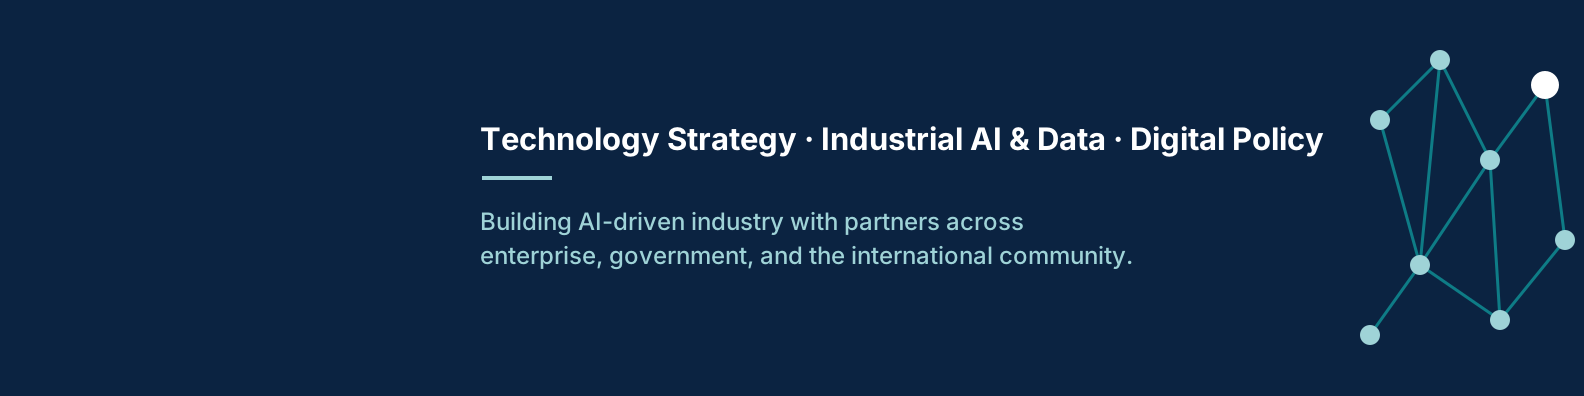
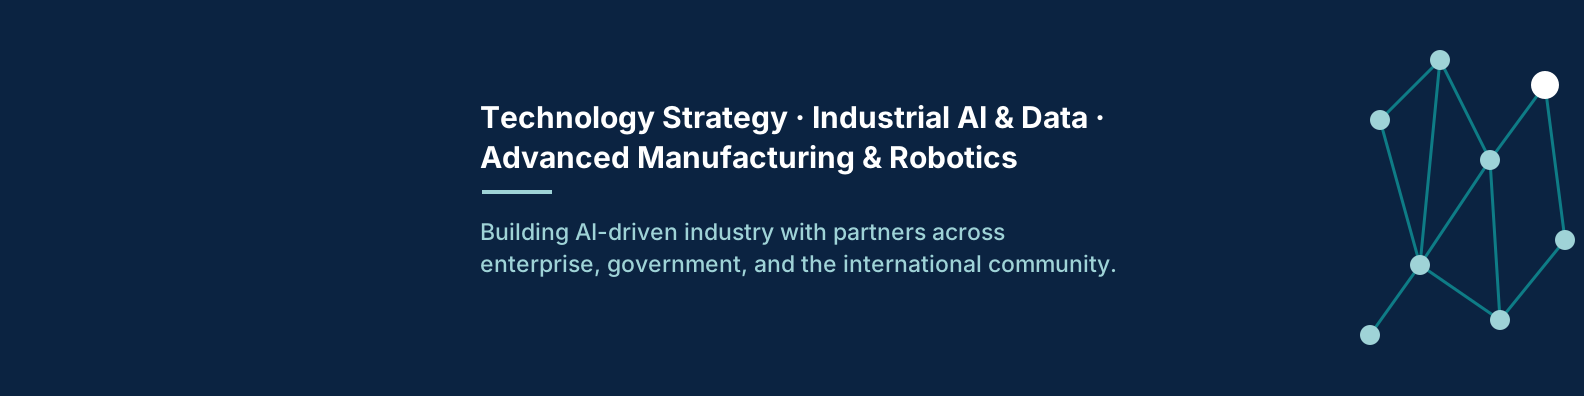
Change consulting scope
- remove digital policy
- add advanced manufacturing & robotics

Changed region(s): [[0.2784, 0.2727, 0.8352, 0.5152], [0.2784, 0.5455, 0.7115, 0.697]]

diff --git a/services.html b/services.html
@@ -4,12 +4,12 @@
 <meta charset="utf-8">
 <meta name="viewport" content="width=device-width, initial-scale=1">
 <title>Services | Dr. Robert Kerwin C. Billones</title>
-<meta name="description" content="Technology strategy, industrial AI and digital transformation, AI applications and systems, and digital policy and AI governance.">
+<meta name="description" content="Technology strategy and digital policy, industrial AI and data, advanced manufacturing and robotics, and AI applications and systems.">
 <meta name="author" content="Robert Kerwin C. Billones, Ph.D.">
 <link rel="canonical" href="https://rkbillones.com/services.html">
 <meta property="og:type" content="website">
 <meta property="og:title" content="Services | Dr. Robert Kerwin C. Billones">
-<meta property="og:description" content="Technology strategy, industrial AI and digital transformation, AI applications and systems, and digital policy and AI governance.">
+<meta property="og:description" content="Technology strategy and digital policy, industrial AI and data, advanced manufacturing and robotics, and AI applications and systems.">
 <meta property="og:url" content="https://rkbillones.com/services.html">
 <meta property="og:image" content="https://rkbillones.com/assets/og-image.png">
 <meta name="twitter:card" content="summary_large_image">
@@ -35,29 +35,39 @@
 <section class="page-hero">
   <div class="wrap">
     <p class="eyebrow">Services</p>
-    <h1>Strategy, industrial AI, AI systems and digital policy</h1>
-    <p class="lead">Four service lines, one practitioner who has built the technology, run the company and worked on the policy.</p>
+    <h1>Technology strategy, industrial AI, advanced manufacturing and AI systems</h1>
+    <p class="lead">Four service lines, one practitioner who has built the technology, run the company, worked on the factory floor and contributed to national and international AI policy.</p>
   </div>
 </section>
 <section class="section">
   <div class="wrap stack"><article class="svc-block" id="str">
   <div class="svc-icon svc-icon-lg"><svg viewBox="0 0 40 40" aria-hidden="true"><path d="M6 32 16 20l7 6 11-14"/><path d="M27 12h7v7"/></svg></div>
   <div>
-    <h2>Technology Strategy and Leadership Advisory</h2>
-    <p class="lead-sm">Technology strategy, roadmaps and commercialization advice from someone who has built and run a technology company.</p>
+    <h2>Technology Strategy and Digital Policy</h2>
+    <p class="lead-sm">Technology strategy, roadmaps, commercialization and AI governance advice from someone who has built and run a technology company and works on national and international AI policy.</p>
     <div class="two-col">
-      <div><h3>What I deliver</h3><ul class="ticks"><li>Technology and digital strategy and roadmaps</li><li>AI and technology investment prioritization</li><li>Technology commercialization, startup and spin-off advisory</li><li>Board and executive advisory on technology</li></ul></div>
-      <div><h3>Relevant experience</h3><ul class="ticks"><li>Startup and technology commercialization advisory for Animo Labs Technology Business Incubator (2021–2023)</li><li>Technology business incubation advisory for DOST–BulSU BARAS Technology Business Incubator (2021–2023)</li><li>Social enterprise and economic development program for DLSU LSEED with the Office of the Vice President of the Philippines (2021–2022)</li></ul></div>
+      <div><h3>What I deliver</h3><ul class="ticks"><li>Technology and digital strategy and roadmaps</li><li>AI and technology investment prioritization and commercialization</li><li>Digital and AI policy, governance frameworks and risk assessment</li><li>Standards alignment (ISO/IEC 42001, ISO/IEC JTC 1/SC 42 work) and AI governance for institutions</li></ul></div>
+      <div><h3>Relevant experience</h3><ul class="ticks"><li>AI governance coordination for Asia; white papers on AI governance, AI in education and AI for sustainable development for Asia-Europe Foundation (ASEF), Singapore – Asia-Europe for Artificial Intelligence (AE4AI) Network (2023–present)</li><li>AI Governance for Higher Education Institutions in Asia for United Board for Christian Higher Education in Asia (Hong Kong) (2026)</li><li>Startup and technology commercialization advisory for Animo Labs Technology Business Incubator (2021–2023)</li><li>Technology business incubation advisory for DOST–BulSU BARAS Technology Business Incubator (2021–2023)</li><li>Social enterprise and economic development program for DLSU LSEED with the Office of the Vice President of the Philippines (2021–2022)</li><li>Frontiers Champions: AI Governance and Safety in the Philippines – research project funded by Royal Academy of Engineering (UK) (2025–2026); Project Leader</li><li>ASEFInnolab6: Universities’ Role in AI Innovation Ecosystems – research project funded by Gokongwei Brothers Foundation (2025–2026); Principal Investigator</li><li>Global and Local AI Innovation Ecosystem and Supply and Value Chain Development – research project funded by DLSU Research Grants and Management Office (2024–2025); Principal Investigator</li></ul></div>
     </div>
   </div>
 </article><article class="svc-block" id="iai">
   <div class="svc-icon svc-icon-lg"><svg viewBox="0 0 40 40" aria-hidden="true"><circle cx="20" cy="20" r="5"/><path d="M20 5v6M20 29v6M5 20h6M29 20h6M9.4 9.4l4.2 4.2M26.4 26.4l4.2 4.2M9.4 30.6l4.2-4.2M26.4 13.6l4.2-4.2"/></svg></div>
   <div>
-    <h2>Industrial AI and Digital Transformation</h2>
-    <p class="lead-sm">AI, data, digital twins, robotics and automation that move from pilot to plant.</p>
+    <h2>Industrial AI and Data</h2>
+    <p class="lead-sm">AI, data platforms and digital twins that turn plant, warehouse and operations data into decisions – from pilot to production.</p>
     <div class="two-col">
-      <div><h3>What I deliver</h3><ul class="ticks"><li>Industry 4.0 and smart-manufacturing readiness assessment</li><li>Digital twin, simulation and optimization design</li><li>Computer vision, robotics and automation solutions</li><li>AI and data platform architecture and due diligence</li></ul></div>
-      <div><h3>Relevant experience</h3><ul class="ticks"><li>1 engagements delivered as CEO of ISI Inc.: see the <a href="track-record.html">track record</a></li></ul></div>
+      <div><h3>What I deliver</h3><ul class="ticks"><li>Industrial data strategy and platform architecture</li><li>Predictive maintenance, quality and energy analytics</li><li>Digital twin design, simulation and optimization</li><li>AI and data platform due diligence</li></ul></div>
+      <div><h3>Relevant experience</h3><ul class="ticks"><li>autom8One manufacturing AI for Philippine factories – Profet AI (Taiwan) – partnership (2025–present), as CEO of ISI Inc.</li><li>Research in industrial AI, cyber-physical systems and optimization, including digital twinning for smart parking and multi-objective optimization of DC microgrid energy systems (110+ international publications)</li></ul></div>
+    </div>
+  </div>
+</article><article class="svc-block" id="amr">
+  <div class="svc-icon svc-icon-lg"><svg viewBox="0 0 40 40" aria-hidden="true"><path d="M7 34h16"/><path d="M15 34v-6"/><circle cx="15" cy="25" r="3"/><path d="m17 23 7-9"/><circle cx="25.5" cy="12.5" r="2.5"/><path d="m27.5 11 5-3M28 14l5 2"/></svg></div>
+  <div>
+    <h2>Advanced Manufacturing and Robotics</h2>
+    <p class="lead-sm">Industry 4.0, automation and robotics that move from pilot to plant – for manufacturers, electronics and semiconductor firms, and industry programs.</p>
+    <div class="two-col">
+      <div><h3>What I deliver</h3><ul class="ticks"><li>Industry 4.0 and smart-factory readiness assessments and roadmaps</li><li>Robotics and automation opportunity assessment and integration planning</li><li>Digital manufacturing training and workforce upskilling</li><li>Semiconductor and electronics technology advisory</li></ul></div>
+      <div><h3>Relevant experience</h3><ul class="ticks"><li>Digital Manufacturing Assembly Trainer with Digital Twin Simulator – research project funded by DOST-PCIEERD (2025–2026); Project Leader</li><li>Industry 4.0 Bootcamp for DOST regional offices and an Augmented Reality and Digital Twins course for semiconductor professionals (through DLSU, 2026)</li><li>Former digital IC design engineer, ROHM LSI Design Philippines (RTL design, FPGA prototyping and verification)</li></ul></div>
     </div>
   </div>
 </article><article class="svc-block" id="ais">
@@ -67,17 +77,7 @@
     <p class="lead-sm">Design and build of working AI applications – from data pipeline and model to a deployed, monitored system.</p>
     <div class="two-col">
       <div><h3>What I deliver</h3><ul class="ticks"><li>Custom AI and machine-learning applications</li><li>LLM, RAG and agentic assistants for enterprise and education</li><li>Computer vision and video analytics systems</li><li>Data engineering, cloud deployment and MLOps</li></ul></div>
-      <div><h3>Relevant experience</h3><ul class="ticks"><li>AI / machine-learning solution development for Neuronmek Inc. (2017–2021)</li><li>10 engagements delivered as CEO of ISI Inc.: see the <a href="track-record.html">track record</a></li></ul></div>
-    </div>
-  </div>
-</article><article class="svc-block" id="dpg">
-  <div class="svc-icon svc-icon-lg"><svg viewBox="0 0 40 40" aria-hidden="true"><path d="M20 5 33 10v9c0 8-5.5 13.5-13 16-7.5-2.5-13-8-13-16v-9z"/><path d="m14 20 4.5 4.5L27 16"/></svg></div>
-  <div>
-    <h2>Digital Policy and AI Governance</h2>
-    <p class="lead-sm">Digital and AI policy, governance frameworks and standards alignment for government, industry and institutions.</p>
-    <div class="two-col">
-      <div><h3>What I deliver</h3><ul class="ticks"><li>Digital and AI policy research and advisory</li><li>AI and data governance frameworks and risk assessment</li><li>Standards alignment (ISO/IEC 42001, ISO/IEC JTC 1/SC 42 work)</li><li>AI governance for higher education institutions</li></ul></div>
-      <div><h3>Relevant experience</h3><ul class="ticks"><li>AI governance coordination for Asia; white papers on AI governance, AI in education and AI for sustainable development for Asia-Europe Foundation (ASEF), Singapore – Asia-Europe for Artificial Intelligence (AE4AI) Network (2023–present)</li><li>AI Governance for Higher Education Institutions in Asia for United Board for Christian Higher Education in Asia (Hong Kong) (2026)</li></ul></div>
+      <div><h3>Relevant experience</h3><ul class="ticks"><li>AI / machine-learning solution development for Neuronmek Inc. (2017–2021)</li><li>10 engagements delivered as CEO of ISI Inc.: see the <a href="track-record.html">track record</a></li><li>Single-Agent Retrieval-Augmented Generation System in Education – research project funded by DLSU Research Grants and Management Office (2026–2027); Principal Investigator</li><li>FASTRAC: Vision-Based AI Analytics Software for Traffic and Transport – research project funded by DOST-PCIEERD (2019–2020); Product Development Lead</li></ul></div>
     </div>
   </div>
 </article></div>
@@ -94,13 +94,13 @@
   <div class="wrap footer-grid">
     <div>
       <span class="logo logo-rev" aria-label="rkb."><span class="logo-word">rkb</span><span class="logo-dot"></span></span>
-      <p class="footer-desc">Technology Strategy · Industrial AI &amp; Data · Digital Policy</p>
+      <p class="footer-desc">Technology Strategy · Industrial AI &amp; Data · Advanced Manufacturing &amp; Robotics</p>
       <p class="footer-tag">Building AI-driven industry with partners across enterprise, government, and the international community.</p>
     </div>
     <div>
       <h2 class="footer-h">Contact</h2>
       <ul class="contact-list">
-        <li><svg viewBox="0 0 24 24" aria-hidden="true"><rect x="3" y="5" width="18" height="14" rx="2"/><path d="M3.5 6.5 12 13l8.5-6.5"/></svg><a href="mailto:robert@rkbillones.com">robert@rkbillones.com</a></li>
+        <li><svg viewBox="0 0 24 24" aria-hidden="true"><rect x="3" y="5" width="18" height="14" rx="2"/><path d="M3.5 6.5 12 13l8.5-6.5"/></svg><a href="mailto:consulting@rkbillones.com">consulting@rkbillones.com</a></li>
         <li><svg viewBox="0 0 24 24" aria-hidden="true"><rect x="7" y="2.5" width="10" height="19" rx="2.2"/><path d="M10.5 5.5h3"/><circle cx="12" cy="18" r=".9" fill="currentColor" stroke="none"/></svg><a href="tel:+639054330480">+63 905 433 0480</a></li>
         <li><svg viewBox="0 0 24 24" aria-hidden="true"><path d="M12 21s-6.5-6.2-6.5-11a6.5 6.5 0 0 1 13 0c0 4.8-6.5 11-6.5 11z"/><circle cx="12" cy="10" r="2.3"/></svg><span>Metro Manila, Philippines</span></li>
         <li><svg viewBox="0 0 24 24" aria-hidden="true"><rect x="3" y="3" width="18" height="18" rx="3"/><path d="M8 10.5v6M8 7.6v.1M11.5 16.5v-6M11.5 13c0-1.7 1-2.6 2.4-2.6s2.1.9 2.1 2.6v3.5"/></svg><a href="https://www.linkedin.com/in/robert-kerwin-billones-70526b146" rel="noopener">LinkedIn</a></li>

diff --git a/index.html b/index.html
@@ -3,13 +3,13 @@
 <head>
 <meta charset="utf-8">
 <meta name="viewport" content="width=device-width, initial-scale=1">
-<title>Dr. Robert Kerwin C. Billones | Technology Strategy · Industrial AI &amp; Data · Digital Policy</title>
-<meta name="description" content="Dr. Robert Kerwin C. Billones: technology strategy, industrial AI and data, and digital policy advisory. CEO of ISI Inc., full professor at De La Salle University, Royal Academy of Engineering LIF Fellow.">
+<title>Dr. Robert Kerwin C. Billones | Technology Strategy · Industrial AI &amp; Data · Advanced Manufacturing &amp; Robotics</title>
+<meta name="description" content="Dr. Robert Kerwin C. Billones: technology strategy, industrial AI and data, and advanced manufacturing and robotics advisory. CEO of ISI Inc., full professor of manufacturing and robotics engineering at De La Salle University, Royal Academy of Engineering LIF Fellow.">
 <meta name="author" content="Robert Kerwin C. Billones, Ph.D.">
 <link rel="canonical" href="https://rkbillones.com/">
 <meta property="og:type" content="website">
-<meta property="og:title" content="Dr. Robert Kerwin C. Billones | Technology Strategy · Industrial AI &amp; Data · Digital Policy">
-<meta property="og:description" content="Dr. Robert Kerwin C. Billones: technology strategy, industrial AI and data, and digital policy advisory. CEO of ISI Inc., full professor at De La Salle University, Royal Academy of Engineering LIF Fellow.">
+<meta property="og:title" content="Dr. Robert Kerwin C. Billones | Technology Strategy · Industrial AI &amp; Data · Advanced Manufacturing &amp; Robotics">
+<meta property="og:description" content="Dr. Robert Kerwin C. Billones: technology strategy, industrial AI and data, and advanced manufacturing and robotics advisory. CEO of ISI Inc., full professor of manufacturing and robotics engineering at De La Salle University, Royal Academy of Engineering LIF Fellow.">
 <meta property="og:url" content="https://rkbillones.com/">
 <meta property="og:image" content="https://rkbillones.com/assets/og-image.png">
 <meta name="twitter:card" content="summary_large_image">
@@ -35,9 +35,9 @@
 <section class="hero">
   <div class="wrap hero-grid">
     <div>
-      <p class="eyebrow">Technology Strategy · Industrial AI &amp; Data · Digital Policy</p>
+      <p class="eyebrow">Technology Strategy · Industrial AI &amp; Data · Advanced Manufacturing &amp; Robotics</p>
       <h1>Building AI-driven industry with partners across enterprise, government, and the international community.</h1>
-      <p class="lead">I help companies and governments turn AI and digital technology into industrial results, and shape the policies that go with it, as an engineer, a company builder and a policy researcher.</p>
+      <p class="lead">I help manufacturers, technology companies and governments turn AI, data, automation and robotics into industrial results, and shape the policies that go with them, as a manufacturing and robotics engineer, a company builder and a policy researcher.</p>
       <div class="actions">
         <a class="btn btn-primary" href="contact.html">Start a conversation</a>
         <a class="btn btn-ghost" href="services.html">See services</a>
@@ -61,27 +61,27 @@
     </div>
     <div class="grid-4"><article class="card svc">
   <div class="svc-icon"><svg viewBox="0 0 40 40" aria-hidden="true"><path d="M6 32 16 20l7 6 11-14"/><path d="M27 12h7v7"/></svg></div>
-  <h3>Technology Strategy and Leadership Advisory</h3>
-  <p>Technology strategy, roadmaps and commercialization advice from someone who has built and run a technology company.</p>
+  <h3>Technology Strategy and Digital Policy</h3>
+  <p>Technology strategy, roadmaps, commercialization and AI governance advice from someone who has built and run a technology company and works on national and international AI policy.</p>
   <a class="more" href="services.html#str">How I help <svg viewBox="0 0 24 24" aria-hidden="true"><path d="M5 12h14M13 6l6 6-6 6"/></svg></a>
 </article>
 <article class="card svc">
   <div class="svc-icon"><svg viewBox="0 0 40 40" aria-hidden="true"><circle cx="20" cy="20" r="5"/><path d="M20 5v6M20 29v6M5 20h6M29 20h6M9.4 9.4l4.2 4.2M26.4 26.4l4.2 4.2M9.4 30.6l4.2-4.2M26.4 13.6l4.2-4.2"/></svg></div>
-  <h3>Industrial AI and Digital Transformation</h3>
-  <p>AI, data, digital twins, robotics and automation that move from pilot to plant.</p>
+  <h3>Industrial AI and Data</h3>
+  <p>AI, data platforms and digital twins that turn plant, warehouse and operations data into decisions – from pilot to production.</p>
   <a class="more" href="services.html#iai">How I help <svg viewBox="0 0 24 24" aria-hidden="true"><path d="M5 12h14M13 6l6 6-6 6"/></svg></a>
+</article>
+<article class="card svc">
+  <div class="svc-icon"><svg viewBox="0 0 40 40" aria-hidden="true"><path d="M7 34h16"/><path d="M15 34v-6"/><circle cx="15" cy="25" r="3"/><path d="m17 23 7-9"/><circle cx="25.5" cy="12.5" r="2.5"/><path d="m27.5 11 5-3M28 14l5 2"/></svg></div>
+  <h3>Advanced Manufacturing and Robotics</h3>
+  <p>Industry 4.0, automation and robotics that move from pilot to plant – for manufacturers, electronics and semiconductor firms, and industry programs.</p>
+  <a class="more" href="services.html#amr">How I help <svg viewBox="0 0 24 24" aria-hidden="true"><path d="M5 12h14M13 6l6 6-6 6"/></svg></a>
 </article>
 <article class="card svc">
   <div class="svc-icon"><svg viewBox="0 0 40 40" aria-hidden="true"><rect x="6" y="8" width="28" height="20" rx="2.5"/><path d="M14 33h12M20 28v5M13 18l4 4 4-4 4 4"/></svg></div>
   <h3>AI Applications and Systems</h3>
   <p>Design and build of working AI applications – from data pipeline and model to a deployed, monitored system.</p>
   <a class="more" href="services.html#ais">How I help <svg viewBox="0 0 24 24" aria-hidden="true"><path d="M5 12h14M13 6l6 6-6 6"/></svg></a>
-</article>
-<article class="card svc">
-  <div class="svc-icon"><svg viewBox="0 0 40 40" aria-hidden="true"><path d="M20 5 33 10v9c0 8-5.5 13.5-13 16-7.5-2.5-13-8-13-16v-9z"/><path d="m14 20 4.5 4.5L27 16"/></svg></div>
-  <h3>Digital Policy and AI Governance</h3>
-  <p>Digital and AI policy, governance frameworks and standards alignment for government, industry and institutions.</p>
-  <a class="more" href="services.html#dpg">How I help <svg viewBox="0 0 24 24" aria-hidden="true"><path d="M5 12h14M13 6l6 6-6 6"/></svg></a>
 </article></div>
   </div>
 </section>
@@ -103,14 +103,14 @@
   <div class="wrap">
     <div class="section-head">
       <p class="eyebrow">Credentials</p>
-      <h2>Engineer, executive and policy researcher</h2>
+      <h2>Manufacturing and robotics engineer, technology executive, policy researcher</h2>
     </div>
     <ul class="cred-grid">
       <li><strong>CEO and Co-Founder</strong><span>Intelligent Systems Innovation (ISI) Inc., an AI and data company (2019–present)</span></li>
-      <li><strong>Full Professor and Research Fellow</strong><span>De La Salle University, Manila</span></li>
+      <li><strong>Full Professor and Research Fellow</strong><span>Department of Biomedical, Manufacturing, and Robotics Engineering, De La Salle University</span></li>
+      <li><strong>Digital twin and Industry 4.0 projects</strong><span>Project Leader, DOST-PCIEERD Digital Manufacturing Assembly Trainer with Digital Twin Simulator</span></li>
       <li><strong>Leaders in Innovation Fellow</strong><span>Royal Academy of Engineering, United Kingdom</span></li>
-      <li><strong>Asia Coordinator for AI Governance</strong><span>Asia-Europe for Artificial Intelligence (AE4AI) Network, ASEF</span></li>
-      <li><strong>AI standards</strong><span>Philippine committee BPS/TC 60/SC4, mirror of ISO/IEC JTC 1/SC 42</span></li>
+      <li><strong>AI governance and standards</strong><span>AE4AI Asia Coordinator for AI Governance (ASEF); Philippine AI standards committee BPS/TC 60/SC4</span></li>
       <li><strong>Former IC design engineer</strong><span>ROHM LSI Design Philippines</span></li>
     </ul>
   </div>
@@ -118,8 +118,8 @@
 
 <section class="cta">
   <div class="wrap cta-inner">
-    <h2>Have a technology, AI or policy challenge?</h2>
-    <a class="btn btn-primary" href="mailto:robert@rkbillones.com"><svg viewBox="0 0 24 24" aria-hidden="true"><rect x="3" y="5" width="18" height="14" rx="2"/><path d="M3.5 6.5 12 13l8.5-6.5"/></svg> robert@rkbillones.com</a>
+    <h2>Have a technology, AI or automation challenge?</h2>
+    <a class="btn btn-primary" href="mailto:consulting@rkbillones.com"><svg viewBox="0 0 24 24" aria-hidden="true"><rect x="3" y="5" width="18" height="14" rx="2"/><path d="M3.5 6.5 12 13l8.5-6.5"/></svg> consulting@rkbillones.com</a>
   </div>
 </section>
 </main>
@@ -127,13 +127,13 @@
   <div class="wrap footer-grid">
     <div>
       <span class="logo logo-rev" aria-label="rkb."><span class="logo-word">rkb</span><span class="logo-dot"></span></span>
-      <p class="footer-desc">Technology Strategy · Industrial AI &amp; Data · Digital Policy</p>
+      <p class="footer-desc">Technology Strategy · Industrial AI &amp; Data · Advanced Manufacturing &amp; Robotics</p>
       <p class="footer-tag">Building AI-driven industry with partners across enterprise, government, and the international community.</p>
     </div>
     <div>
       <h2 class="footer-h">Contact</h2>
       <ul class="contact-list">
-        <li><svg viewBox="0 0 24 24" aria-hidden="true"><rect x="3" y="5" width="18" height="14" rx="2"/><path d="M3.5 6.5 12 13l8.5-6.5"/></svg><a href="mailto:robert@rkbillones.com">robert@rkbillones.com</a></li>
+        <li><svg viewBox="0 0 24 24" aria-hidden="true"><rect x="3" y="5" width="18" height="14" rx="2"/><path d="M3.5 6.5 12 13l8.5-6.5"/></svg><a href="mailto:consulting@rkbillones.com">consulting@rkbillones.com</a></li>
         <li><svg viewBox="0 0 24 24" aria-hidden="true"><rect x="7" y="2.5" width="10" height="19" rx="2.2"/><path d="M10.5 5.5h3"/><circle cx="12" cy="18" r=".9" fill="currentColor" stroke="none"/></svg><a href="tel:+639054330480">+63 905 433 0480</a></li>
         <li><svg viewBox="0 0 24 24" aria-hidden="true"><path d="M12 21s-6.5-6.2-6.5-11a6.5 6.5 0 0 1 13 0c0 4.8-6.5 11-6.5 11z"/><circle cx="12" cy="10" r="2.3"/></svg><span>Metro Manila, Philippines</span></li>
         <li><svg viewBox="0 0 24 24" aria-hidden="true"><rect x="3" y="3" width="18" height="18" rx="3"/><path d="M8 10.5v6M8 7.6v.1M11.5 16.5v-6M11.5 13c0-1.7 1-2.6 2.4-2.6s2.1.9 2.1 2.6v3.5"/></svg><a href="https://www.linkedin.com/in/robert-kerwin-billones-70526b146" rel="noopener">LinkedIn</a></li>

diff --git a/about.html b/about.html
@@ -36,7 +36,7 @@
   <div class="wrap">
     <p class="eyebrow">About</p>
     <h1>Robert Kerwin C. Billones, Ph.D.</h1>
-    <p class="lead">Technology Strategy · Industrial AI &amp; Data · Digital Policy</p>
+    <p class="lead">Technology Strategy · Industrial AI &amp; Data · Advanced Manufacturing &amp; Robotics</p>
   </div>
 </section>
 <section class="section">
@@ -47,7 +47,7 @@
       <div class="portrait-ph"><span class="logo logo-xl" aria-label="rkb."><span class="logo-word">rkb</span><span class="logo-dot"></span></span></div>
     </figure>
     <div class="prose">
-      <p>Dr. Robert Kerwin C. Billones is an engineer, technology executive and policy researcher working where AI, industry and public policy meet. He is co-founder and CEO of Intelligent Systems Innovation (ISI) Inc., a DLSU spin-off in AI and data that has served the Department of Science and Technology Region VIII and Unilever in the Philippines, Indonesia and Thailand, with partnerships including AWS, the NVIDIA Inception Program, the Intel Partner Alliance and Profet AI. ISI commercializes CATCH-ALL, an AI visual analytics platform for mobility and traffic that grew out of his DOST-funded research and patent. He personally led the product development and managed the projects and client relationships, from Manila City, the MMDA and Makati City to Roxas City, General Santos City and the Cordillera region, and the &quot;Eyes Up&quot; workplace-safety AI for Unilever. He began his career as a digital IC design engineer at ROHM LSI Design Philippines and is now a full professor and research fellow in the Department of Biomedical, Manufacturing, and Robotics Engineering at De La Salle University, Manila. He holds a Ph.D. in Electronics and Communications Engineering (DLSU, 2018) and is a Leaders in Innovation Fellow of the Royal Academy of Engineering, United Kingdom.</p><p>His industrial work spans digital manufacturing, digital twins, computer vision and optimization, including the DOST-PCIEERD Digital Manufacturing Assembly Trainer with Digital Twin Simulator. In digital policy, he serves as Asia Coordinator for AI Governance of the Asia-Europe for Artificial Intelligence (AE4AI) Network, is a research group member of the AI Policy Clinic of the Center for AI and Digital Policy (CAIDP), Washington, D.C., sits on the Philippine AI standards committee mirroring ISO/IEC JTC 1/SC 42, and led &quot;Frontiers Champions: AI Governance and Safety in the Philippines,&quot; funded by the Royal Academy of Engineering. He has published 110+ international articles and holds a Philippine patent on license plate detection and recognition.</p>
+      <p>Dr. Robert Kerwin C. Billones is an engineer, technology executive and policy researcher working where AI, industry and public policy meet. He is co-founder and CEO of Intelligent Systems Innovation (ISI) Inc., a DLSU spin-off in AI and data that has served the Department of Science and Technology Region VIII and Unilever in the Philippines, Indonesia and Thailand, with partnerships including AWS, the NVIDIA Inception Program, the Intel Partner Alliance and Profet AI. ISI commercializes CATCH-ALL, an AI visual analytics platform for mobility and traffic that grew out of his DOST-funded research and patent. He personally led the product development and managed the projects and client relationships, from Manila City, the MMDA and Makati City to Roxas City, General Santos City and the Cordillera region, and the &quot;Eyes Up&quot; workplace-safety AI for Unilever. He began his career as a digital IC design engineer at ROHM LSI Design Philippines and is now a full professor and research fellow in the Department of Biomedical, Manufacturing, and Robotics Engineering at De La Salle University, Manila. He holds a Ph.D. in Electronics and Communications Engineering (DLSU, 2018) and is a Leaders in Innovation Fellow of the Royal Academy of Engineering, United Kingdom.</p><p>His industrial work spans advanced manufacturing, robotics and automation, digital twins, computer vision and optimization. He led the DOST-PCIEERD Digital Manufacturing Assembly Trainer with Digital Twin Simulator, trains DOST regional offices and semiconductor engineers in Industry 4.0, augmented reality and digital twins, and is preparing ORBIT, an AI-enabled digital twin platform for production and warehouse automation. On the policy side of technology strategy, he serves as Asia Coordinator for AI Governance of the Asia-Europe for Artificial Intelligence (AE4AI) Network, is a research group member of the AI Policy Clinic of the Center for AI and Digital Policy (CAIDP), Washington, D.C., sits on the Philippine AI standards committee mirroring ISO/IEC JTC 1/SC 42, and led &quot;Frontiers Champions: AI Governance and Safety in the Philippines,&quot; funded by the Royal Academy of Engineering. He has published 110+ international articles and holds a Philippine patent on license plate detection and recognition.</p>
       <h2>Education</h2>
       <ul class="plain">
         <li><strong>Ph.D., Electronics and Communications Engineering</strong>, De La Salle University (2018)</li>
@@ -58,7 +58,7 @@
       <h2>Affiliations and standards work</h2>
       <ul class="plain"><li><strong>Founding Member; Asia Coordinator for AI Governance</strong>, Asia-Europe for Artificial Intelligence (AE4AI) Network, ASEF Singapore (2023–present)</li><li><strong>Research Group Member, AI Policy Clinic</strong>, Center for AI and Digital Policy (CAIDP), Washington, D.C. (2026)</li><li><strong>Member (through the national body)</strong>, ISO/IEC JTC 1/SC 42 – Artificial Intelligence (2024–present)</li><li><strong>Member</strong>, DTI Bureau of Philippine Standards BPS/TC 60/SC4 – AI and Quantum Technologies (2024–present)</li><li><strong>Fellow</strong>, Royal Academy of Engineering (UK) – Leaders in Innovation Fellowship (2019–present)</li><li><strong>Project Leader</strong>, Royal Academy of Engineering (UK) – Frontiers Champions: AI Governance and Safety (2025–2026)</li></ul>
       <h2>Sectors</h2>
-      <p>Manufacturing · Semiconductors and Electronics · Transportation and Smart Cities · Consumer Goods · Government · Financial Services · Higher Education</p>
+      <p>Advanced Manufacturing and Industry 4.0 · Semiconductors and Electronics · Transportation and Smart Cities · Consumer Goods · Government · Financial Services · Higher Education</p>
     </div>
   </div>
 </section>
@@ -67,13 +67,13 @@
   <div class="wrap footer-grid">
     <div>
       <span class="logo logo-rev" aria-label="rkb."><span class="logo-word">rkb</span><span class="logo-dot"></span></span>
-      <p class="footer-desc">Technology Strategy · Industrial AI &amp; Data · Digital Policy</p>
+      <p class="footer-desc">Technology Strategy · Industrial AI &amp; Data · Advanced Manufacturing &amp; Robotics</p>
       <p class="footer-tag">Building AI-driven industry with partners across enterprise, government, and the international community.</p>
     </div>
     <div>
       <h2 class="footer-h">Contact</h2>
       <ul class="contact-list">
-        <li><svg viewBox="0 0 24 24" aria-hidden="true"><rect x="3" y="5" width="18" height="14" rx="2"/><path d="M3.5 6.5 12 13l8.5-6.5"/></svg><a href="mailto:robert@rkbillones.com">robert@rkbillones.com</a></li>
+        <li><svg viewBox="0 0 24 24" aria-hidden="true"><rect x="3" y="5" width="18" height="14" rx="2"/><path d="M3.5 6.5 12 13l8.5-6.5"/></svg><a href="mailto:consulting@rkbillones.com">consulting@rkbillones.com</a></li>
         <li><svg viewBox="0 0 24 24" aria-hidden="true"><rect x="7" y="2.5" width="10" height="19" rx="2.2"/><path d="M10.5 5.5h3"/><circle cx="12" cy="18" r=".9" fill="currentColor" stroke="none"/></svg><a href="tel:+639054330480">+63 905 433 0480</a></li>
         <li><svg viewBox="0 0 24 24" aria-hidden="true"><path d="M12 21s-6.5-6.2-6.5-11a6.5 6.5 0 0 1 13 0c0 4.8-6.5 11-6.5 11z"/><circle cx="12" cy="10" r="2.3"/></svg><span>Metro Manila, Philippines</span></li>
         <li><svg viewBox="0 0 24 24" aria-hidden="true"><rect x="3" y="3" width="18" height="18" rx="3"/><path d="M8 10.5v6M8 7.6v.1M11.5 16.5v-6M11.5 13c0-1.7 1-2.6 2.4-2.6s2.1.9 2.1 2.6v3.5"/></svg><a href="https://www.linkedin.com/in/robert-kerwin-billones-70526b146" rel="noopener">LinkedIn</a></li>

diff --git a/insights.html b/insights.html
@@ -4,12 +4,12 @@
 <meta charset="utf-8">
 <meta name="viewport" content="width=device-width, initial-scale=1">
 <title>Insights | Dr. Robert Kerwin C. Billones</title>
-<meta name="description" content="Publications, research profiles and AI policy and governance work.">
+<meta name="description" content="Publications, research profiles, advanced manufacturing projects and AI policy and governance work.">
 <meta name="author" content="Robert Kerwin C. Billones, Ph.D.">
 <link rel="canonical" href="https://rkbillones.com/insights.html">
 <meta property="og:type" content="website">
 <meta property="og:title" content="Insights | Dr. Robert Kerwin C. Billones">
-<meta property="og:description" content="Publications, research profiles and AI policy and governance work.">
+<meta property="og:description" content="Publications, research profiles, advanced manufacturing projects and AI policy and governance work.">
 <meta property="og:url" content="https://rkbillones.com/insights.html">
 <meta property="og:image" content="https://rkbillones.com/assets/og-image.png">
 <meta name="twitter:card" content="summary_large_image">
@@ -35,7 +35,7 @@
 <section class="page-hero">
   <div class="wrap">
     <p class="eyebrow">Insights</p>
-    <h1>Research, publications and policy work</h1>
+    <h1>Research, publications and technology policy work</h1>
     <p class="lead">110+ international publications in artificial intelligence, cyber-physical systems, Industry 4.0 and optimization, and a Philippine patent on license plate detection and recognition.</p>
   </div>
 </section>
@@ -44,7 +44,13 @@
     <div>
       <h2>Recent publications</h2>
       <ul class="ticks"><li>AI Ecosystem and Value Chain: A Multi-Layered Framework (Technologies, 2025)</li><li>White Paper for Universities on Navigating AI Innovation Ecosystems in the Area of AI Governance</li><li>Digital Twinning for Smart Parking (Smart Cities, 2025)</li><li>Semantic Segmentation using Sentinel-1 SAR Time Series: A Temporal Convolutional Network Approach (IEEE Access, 2025)</li><li>Multi-Objective Linear Programming for Optimizing a Local Energy Community DC Microgrid System and Business Model</li></ul>
-      <h2>Policy and governance work</h2>
+      <h2>Advanced manufacturing and Industry 4.0</h2>
+      <ul class="ticks">
+        <li>Digital Manufacturing Assembly Trainer with Digital Twin Simulator (DOST-PCIEERD, Project Leader)</li>
+        <li>Industry 4.0 Bootcamp for DOST regional offices; Augmented Reality and Digital Twins course for semiconductor professionals (DLSU)</li>
+        <li>Research in cyber-physical systems, digital twins, optimization and intelligent manufacturing</li>
+      </ul>
+      <h2>Technology policy and AI governance</h2>
       <ul class="ticks">
         <li>AE4AI Network white papers on AI governance, AI in education and AI for sustainable development</li>
         <li>Frontiers Champions: AI Governance and Safety in the Philippines (Royal Academy of Engineering)</li>
@@ -64,13 +70,13 @@
   <div class="wrap footer-grid">
     <div>
       <span class="logo logo-rev" aria-label="rkb."><span class="logo-word">rkb</span><span class="logo-dot"></span></span>
-      <p class="footer-desc">Technology Strategy · Industrial AI &amp; Data · Digital Policy</p>
+      <p class="footer-desc">Technology Strategy · Industrial AI &amp; Data · Advanced Manufacturing &amp; Robotics</p>
       <p class="footer-tag">Building AI-driven industry with partners across enterprise, government, and the international community.</p>
     </div>
     <div>
       <h2 class="footer-h">Contact</h2>
       <ul class="contact-list">
-        <li><svg viewBox="0 0 24 24" aria-hidden="true"><rect x="3" y="5" width="18" height="14" rx="2"/><path d="M3.5 6.5 12 13l8.5-6.5"/></svg><a href="mailto:robert@rkbillones.com">robert@rkbillones.com</a></li>
+        <li><svg viewBox="0 0 24 24" aria-hidden="true"><rect x="3" y="5" width="18" height="14" rx="2"/><path d="M3.5 6.5 12 13l8.5-6.5"/></svg><a href="mailto:consulting@rkbillones.com">consulting@rkbillones.com</a></li>
         <li><svg viewBox="0 0 24 24" aria-hidden="true"><rect x="7" y="2.5" width="10" height="19" rx="2.2"/><path d="M10.5 5.5h3"/><circle cx="12" cy="18" r=".9" fill="currentColor" stroke="none"/></svg><a href="tel:+639054330480">+63 905 433 0480</a></li>
         <li><svg viewBox="0 0 24 24" aria-hidden="true"><path d="M12 21s-6.5-6.2-6.5-11a6.5 6.5 0 0 1 13 0c0 4.8-6.5 11-6.5 11z"/><circle cx="12" cy="10" r="2.3"/></svg><span>Metro Manila, Philippines</span></li>
         <li><svg viewBox="0 0 24 24" aria-hidden="true"><rect x="3" y="3" width="18" height="18" rx="3"/><path d="M8 10.5v6M8 7.6v.1M11.5 16.5v-6M11.5 13c0-1.7 1-2.6 2.4-2.6s2.1.9 2.1 2.6v3.5"/></svg><a href="https://www.linkedin.com/in/robert-kerwin-billones-70526b146" rel="noopener">LinkedIn</a></li>

diff --git a/contact.html b/contact.html
@@ -41,7 +41,7 @@
 </section>
 <section class="section">
   <div class="wrap contact-grid">
-    <a class="card contact-card" href="mailto:robert@rkbillones.com?subject=Consulting%20inquiry"><svg viewBox="0 0 24 24" aria-hidden="true"><rect x="3" y="5" width="18" height="14" rx="2"/><path d="M3.5 6.5 12 13l8.5-6.5"/></svg><span class="cc-l">Email</span><span class="cc-v">robert@rkbillones.com</span></a>
+    <a class="card contact-card" href="mailto:consulting@rkbillones.com?subject=Consulting%20inquiry"><svg viewBox="0 0 24 24" aria-hidden="true"><rect x="3" y="5" width="18" height="14" rx="2"/><path d="M3.5 6.5 12 13l8.5-6.5"/></svg><span class="cc-l">Email</span><span class="cc-v">consulting@rkbillones.com</span></a>
     <a class="card contact-card" href="tel:+639054330480"><svg viewBox="0 0 24 24" aria-hidden="true"><rect x="7" y="2.5" width="10" height="19" rx="2.2"/><path d="M10.5 5.5h3"/><circle cx="12" cy="18" r=".9" fill="currentColor" stroke="none"/></svg><span class="cc-l">Mobile</span><span class="cc-v">+63 905 433 0480</span></a>
     <a class="card contact-card" href="https://www.linkedin.com/in/robert-kerwin-billones-70526b146" rel="noopener"><svg viewBox="0 0 24 24" aria-hidden="true"><rect x="3" y="3" width="18" height="18" rx="3"/><path d="M8 10.5v6M8 7.6v.1M11.5 16.5v-6M11.5 13c0-1.7 1-2.6 2.4-2.6s2.1.9 2.1 2.6v3.5"/></svg><span class="cc-l">LinkedIn</span><span class="cc-v">Connect or message</span></a>
     <div class="card contact-card"><svg viewBox="0 0 24 24" aria-hidden="true"><path d="M12 21s-6.5-6.2-6.5-11a6.5 6.5 0 0 1 13 0c0 4.8-6.5 11-6.5 11z"/><circle cx="12" cy="10" r="2.3"/></svg><span class="cc-l">Based in</span><span class="cc-v">Metro Manila, Philippines</span></div>
@@ -51,7 +51,7 @@
       <h2>What to include in your message</h2>
       <ul class="ticks">
         <li>Your organization and the problem or opportunity</li>
-        <li>The service line that fits best: strategy, industrial AI, AI applications and systems, or digital policy</li>
+        <li>The service line that fits best: technology strategy (including digital policy and AI governance), industrial AI and data, advanced manufacturing and robotics, or AI applications and systems</li>
         <li>Timeline, budget range and how you procure (direct, RFQ or bidding)</li>
       </ul>
     </div>
@@ -62,13 +62,13 @@
   <div class="wrap footer-grid">
     <div>
       <span class="logo logo-rev" aria-label="rkb."><span class="logo-word">rkb</span><span class="logo-dot"></span></span>
-      <p class="footer-desc">Technology Strategy · Industrial AI &amp; Data · Digital Policy</p>
+      <p class="footer-desc">Technology Strategy · Industrial AI &amp; Data · Advanced Manufacturing &amp; Robotics</p>
       <p class="footer-tag">Building AI-driven industry with partners across enterprise, government, and the international community.</p>
     </div>
     <div>
       <h2 class="footer-h">Contact</h2>
       <ul class="contact-list">
-        <li><svg viewBox="0 0 24 24" aria-hidden="true"><rect x="3" y="5" width="18" height="14" rx="2"/><path d="M3.5 6.5 12 13l8.5-6.5"/></svg><a href="mailto:robert@rkbillones.com">robert@rkbillones.com</a></li>
+        <li><svg viewBox="0 0 24 24" aria-hidden="true"><rect x="3" y="5" width="18" height="14" rx="2"/><path d="M3.5 6.5 12 13l8.5-6.5"/></svg><a href="mailto:consulting@rkbillones.com">consulting@rkbillones.com</a></li>
         <li><svg viewBox="0 0 24 24" aria-hidden="true"><rect x="7" y="2.5" width="10" height="19" rx="2.2"/><path d="M10.5 5.5h3"/><circle cx="12" cy="18" r=".9" fill="currentColor" stroke="none"/></svg><a href="tel:+639054330480">+63 905 433 0480</a></li>
         <li><svg viewBox="0 0 24 24" aria-hidden="true"><path d="M12 21s-6.5-6.2-6.5-11a6.5 6.5 0 0 1 13 0c0 4.8-6.5 11-6.5 11z"/><circle cx="12" cy="10" r="2.3"/></svg><span>Metro Manila, Philippines</span></li>
         <li><svg viewBox="0 0 24 24" aria-hidden="true"><rect x="3" y="3" width="18" height="18" rx="3"/><path d="M8 10.5v6M8 7.6v.1M11.5 16.5v-6M11.5 13c0-1.7 1-2.6 2.4-2.6s2.1.9 2.1 2.6v3.5"/></svg><a href="https://www.linkedin.com/in/robert-kerwin-billones-70526b146" rel="noopener">LinkedIn</a></li>

diff --git a/404.html b/404.html
@@ -44,13 +44,13 @@
   <div class="wrap footer-grid">
     <div>
       <span class="logo logo-rev" aria-label="rkb."><span class="logo-word">rkb</span><span class="logo-dot"></span></span>
-      <p class="footer-desc">Technology Strategy · Industrial AI &amp; Data · Digital Policy</p>
+      <p class="footer-desc">Technology Strategy · Industrial AI &amp; Data · Advanced Manufacturing &amp; Robotics</p>
       <p class="footer-tag">Building AI-driven industry with partners across enterprise, government, and the international community.</p>
     </div>
     <div>
       <h2 class="footer-h">Contact</h2>
       <ul class="contact-list">
-        <li><svg viewBox="0 0 24 24" aria-hidden="true"><rect x="3" y="5" width="18" height="14" rx="2"/><path d="M3.5 6.5 12 13l8.5-6.5"/></svg><a href="mailto:robert@rkbillones.com">robert@rkbillones.com</a></li>
+        <li><svg viewBox="0 0 24 24" aria-hidden="true"><rect x="3" y="5" width="18" height="14" rx="2"/><path d="M3.5 6.5 12 13l8.5-6.5"/></svg><a href="mailto:consulting@rkbillones.com">consulting@rkbillones.com</a></li>
         <li><svg viewBox="0 0 24 24" aria-hidden="true"><rect x="7" y="2.5" width="10" height="19" rx="2.2"/><path d="M10.5 5.5h3"/><circle cx="12" cy="18" r=".9" fill="currentColor" stroke="none"/></svg><a href="tel:+639054330480">+63 905 433 0480</a></li>
         <li><svg viewBox="0 0 24 24" aria-hidden="true"><path d="M12 21s-6.5-6.2-6.5-11a6.5 6.5 0 0 1 13 0c0 4.8-6.5 11-6.5 11z"/><circle cx="12" cy="10" r="2.3"/></svg><span>Metro Manila, Philippines</span></li>
         <li><svg viewBox="0 0 24 24" aria-hidden="true"><rect x="3" y="3" width="18" height="18" rx="3"/><path d="M8 10.5v6M8 7.6v.1M11.5 16.5v-6M11.5 13c0-1.7 1-2.6 2.4-2.6s2.1.9 2.1 2.6v3.5"/></svg><a href="https://www.linkedin.com/in/robert-kerwin-billones-70526b146" rel="noopener">LinkedIn</a></li>

diff --git a/track-record.html b/track-record.html
@@ -73,13 +73,13 @@
   <div class="wrap footer-grid">
     <div>
       <span class="logo logo-rev" aria-label="rkb."><span class="logo-word">rkb</span><span class="logo-dot"></span></span>
-      <p class="footer-desc">Technology Strategy · Industrial AI &amp; Data · Digital Policy</p>
+      <p class="footer-desc">Technology Strategy · Industrial AI &amp; Data · Advanced Manufacturing &amp; Robotics</p>
       <p class="footer-tag">Building AI-driven industry with partners across enterprise, government, and the international community.</p>
     </div>
     <div>
       <h2 class="footer-h">Contact</h2>
       <ul class="contact-list">
-        <li><svg viewBox="0 0 24 24" aria-hidden="true"><rect x="3" y="5" width="18" height="14" rx="2"/><path d="M3.5 6.5 12 13l8.5-6.5"/></svg><a href="mailto:robert@rkbillones.com">robert@rkbillones.com</a></li>
+        <li><svg viewBox="0 0 24 24" aria-hidden="true"><rect x="3" y="5" width="18" height="14" rx="2"/><path d="M3.5 6.5 12 13l8.5-6.5"/></svg><a href="mailto:consulting@rkbillones.com">consulting@rkbillones.com</a></li>
         <li><svg viewBox="0 0 24 24" aria-hidden="true"><rect x="7" y="2.5" width="10" height="19" rx="2.2"/><path d="M10.5 5.5h3"/><circle cx="12" cy="18" r=".9" fill="currentColor" stroke="none"/></svg><a href="tel:+639054330480">+63 905 433 0480</a></li>
         <li><svg viewBox="0 0 24 24" aria-hidden="true"><path d="M12 21s-6.5-6.2-6.5-11a6.5 6.5 0 0 1 13 0c0 4.8-6.5 11-6.5 11z"/><circle cx="12" cy="10" r="2.3"/></svg><span>Metro Manila, Philippines</span></li>
         <li><svg viewBox="0 0 24 24" aria-hidden="true"><rect x="3" y="3" width="18" height="18" rx="3"/><path d="M8 10.5v6M8 7.6v.1M11.5 16.5v-6M11.5 13c0-1.7 1-2.6 2.4-2.6s2.1.9 2.1 2.6v3.5"/></svg><a href="https://www.linkedin.com/in/robert-kerwin-billones-70526b146" rel="noopener">LinkedIn</a></li>
